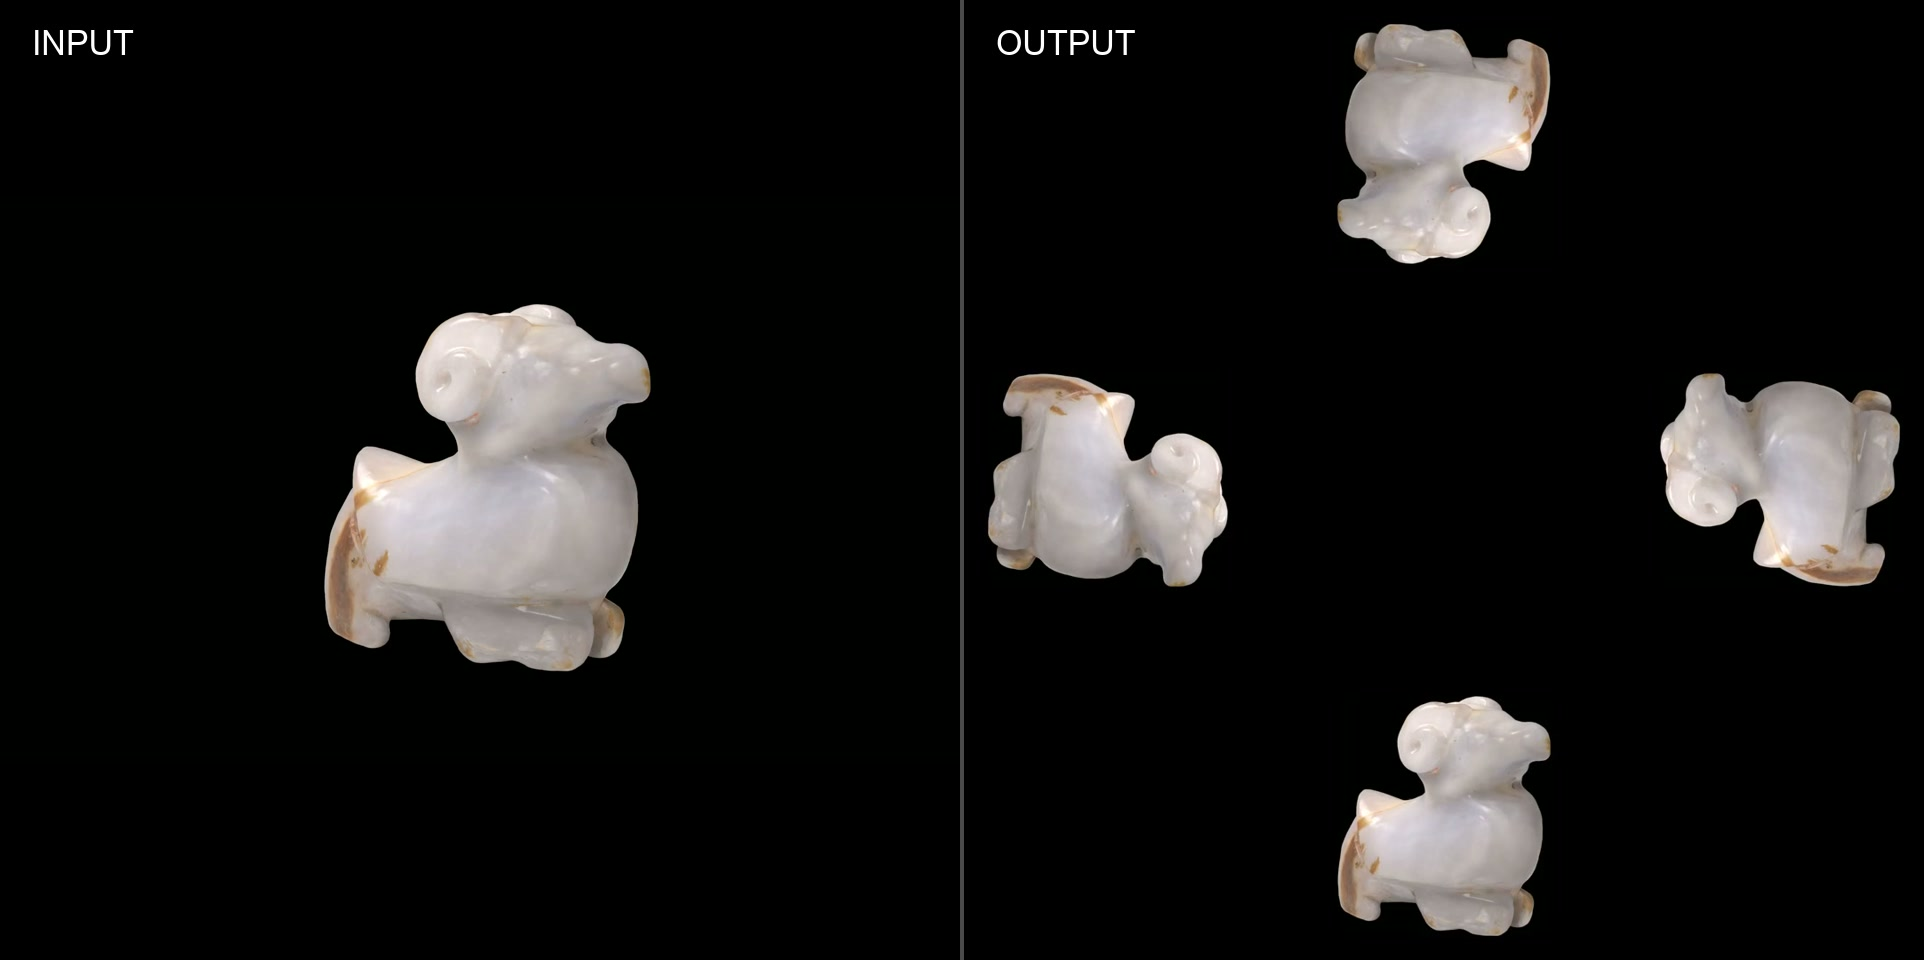
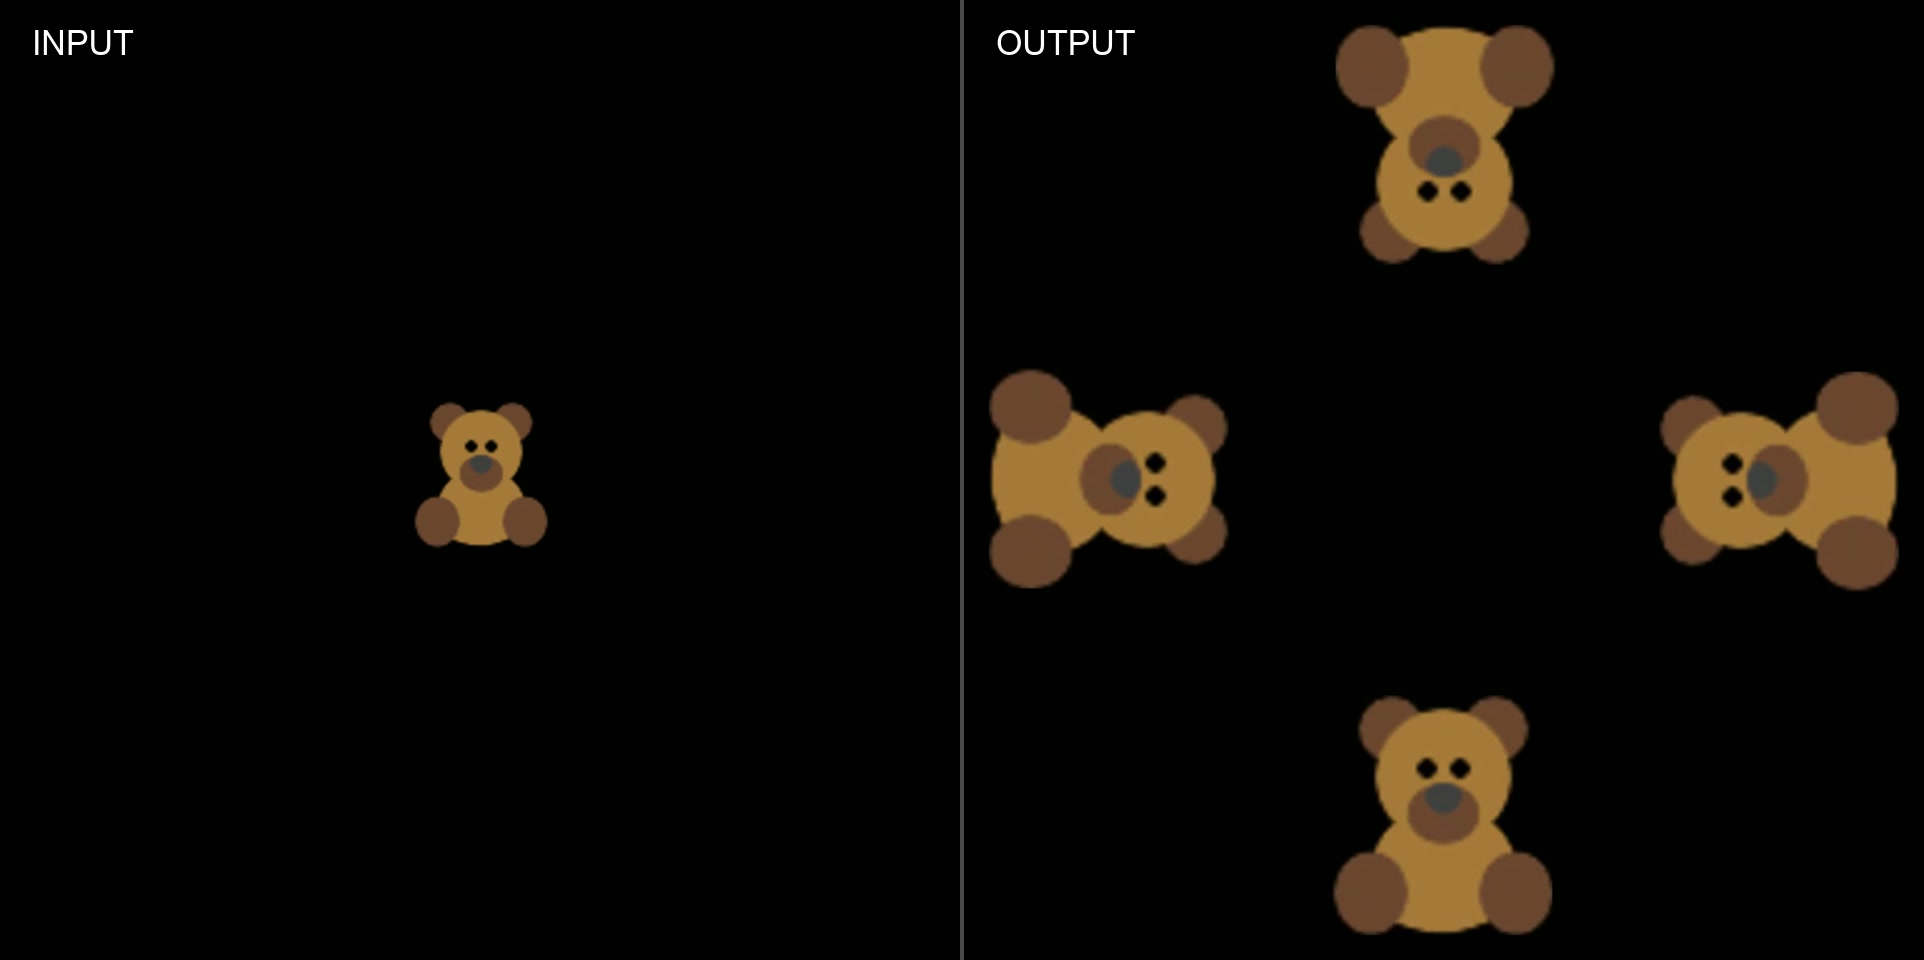
chore:update

diff --git a/utilities/shell/README.md b/utilities/shell/README.md
@@ -553,9 +553,11 @@ Run `./video/four_sides_video.sh --help` for all options.
 
 ### Demo
 
-The left side shows the source frame. The subject occupies a small part of a wide black canvas. The right side shows the square output after automatic border cropping, inward rotation, and four-side placement.
+The left side shows a small subject on a wide black canvas. The right side shows the square output after automatic border cropping, inward rotation, and four-side placement.
 
-![Four-sides video input and output demo](video/assets/four_sides_video_demo.jpg)
+![Teddy bear four-sides video input and output demo](video/assets/four_sides_video_demo.jpg)
+
+The teddy bear artwork comes from [OpenMoji](https://openmoji.org/data/color/svg/1F9F8.svg), created by the OpenMoji contributors and licensed under [CC BY-SA 4.0](https://creativecommons.org/licenses/by-sa/4.0/). This demo image is a derivative and uses the same license. It is not covered by this repository's MIT license.
 
 The demo uses these settings:
 